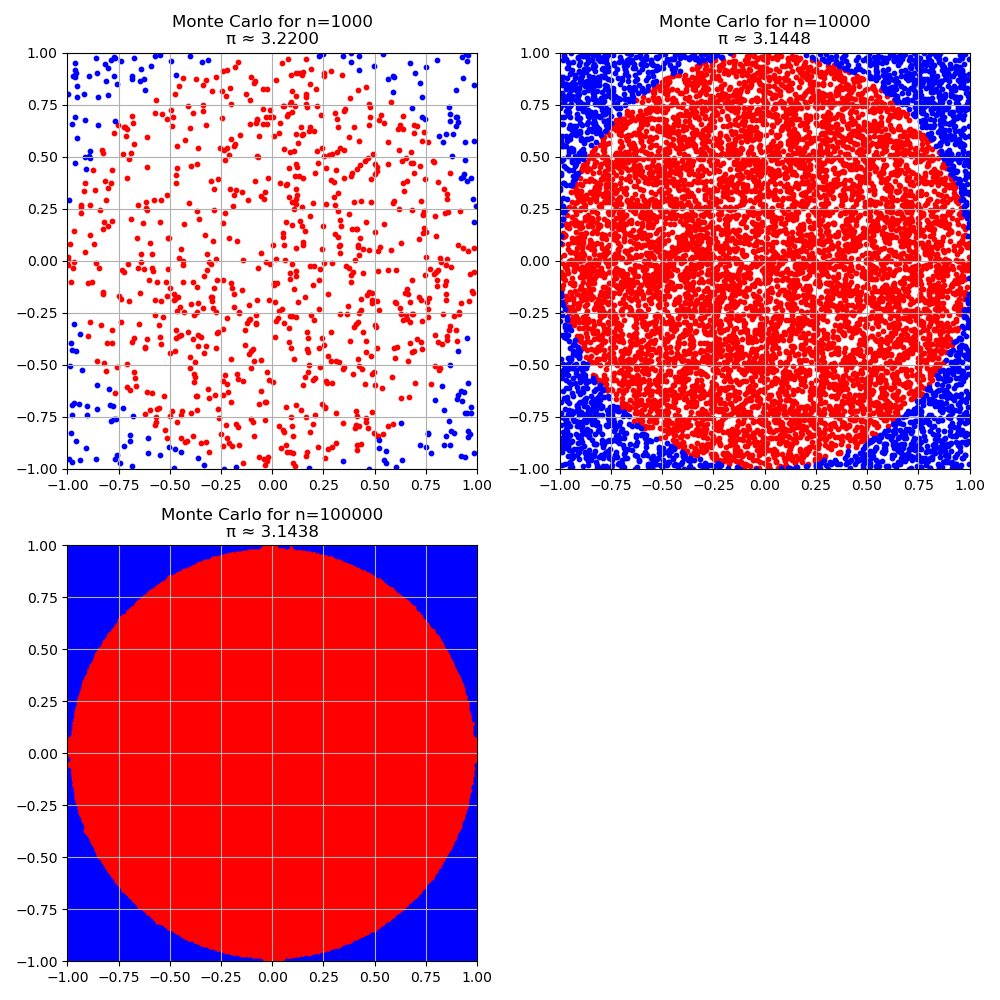
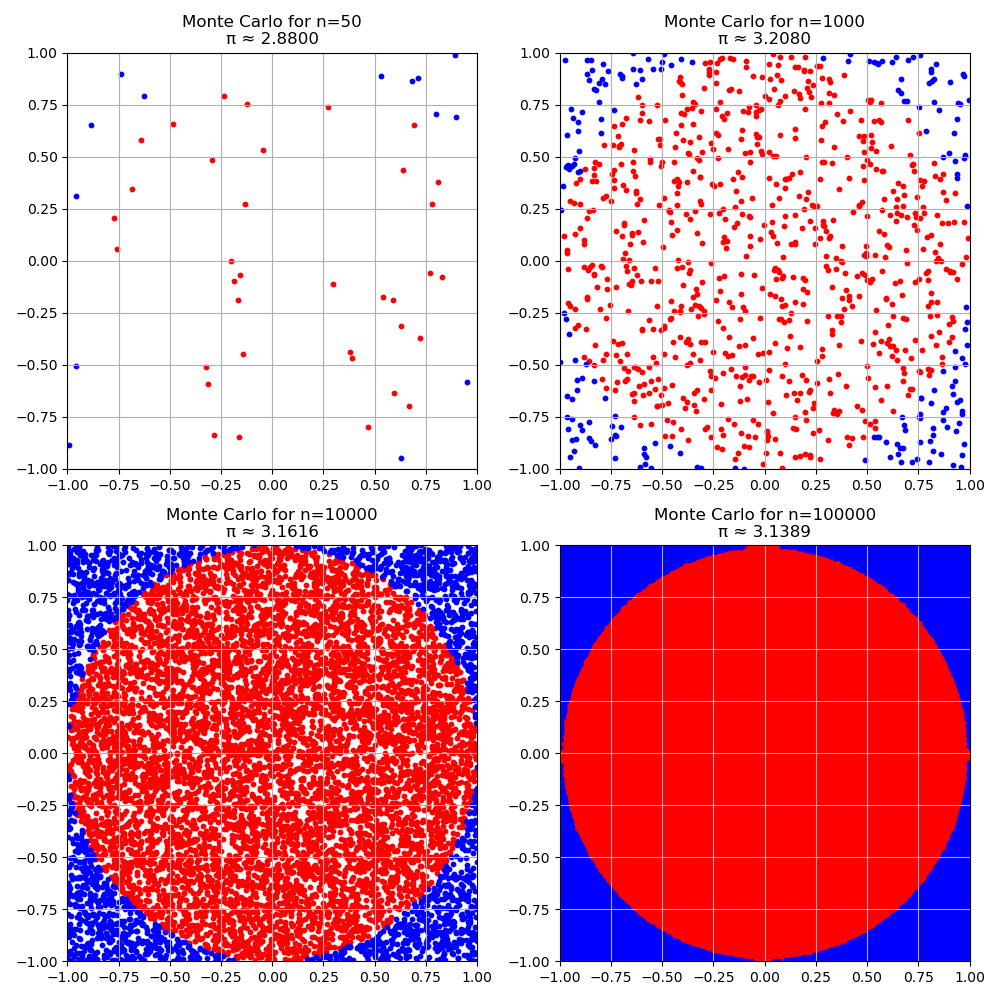
MA4_2.py

diff --git a/MA4_2.py b/MA4_2.py
@@ -1,4 +1,11 @@
 #!/usr/bin/env python3
+"""
+Solutions to module 4
+Student: Cornelia Färdig
+Mail: cornelia.fardig.3943@student.uu.se
+Reviewed by: Naser Shabani
+Reviewed date: 2023-10-12
+"""
 
 from person import Person
 
@@ -36,7 +43,7 @@ def fib_timings(n):
 
 	start = pc()	# starts time rec
 	fib_py(n)
-	timings['python'] = pc() - start	# takes current time subtracted with start time and 
+	timings['python'] = pc() - start	# takes current time subtracted with start time and
 						# stores with the var name 'python' in dict.
 	start = pc()
 	fib_numba(n)
@@ -44,7 +51,7 @@ def fib_timings(n):
 
 	f = Person(n)
 	start = pc()
-	f.fib(n)
+	f.fib()
 	timings['cpp'] = pc() - start		# same as above but for cpp version
 
 	return timings
@@ -138,21 +145,31 @@ def monte_carlo_parallell(n, d, p):
 
 if __name__ == '__main__':
 	# main()
-	
+
 	# ---------- 2.2 ----------
-	# numba warm-up, in accordance to recommendations online
+	# numba warm-up, in accordance to recommendations online (without it the numba values flatlined 
+	# on 1.4 sec for all runs.
 	fib_numba(10)
 
-	n_values = list(range(28,44))
+	n_values = list(range(30,46))
 	results = parallell_fib(n_values)
-	plot_fib(n_values, results, 'fib_28_to_43.png')
+	plot_fib(n_values, results, 'fib_30_to_45.png')
+
+	# from results the fib(47) done by the c++ version is negative, but fibonacci sequences cannot be negative
+	# this is due to limitations in the c++ programming language rending it unable to manage numbers that are too long.
+	# fib_cpp(47) = -1323752223
+	# fib_numba(47) = 2971215073
+	f = Person(47)
+	print(f.fib(), fib_numba(47))
 
 	print()
 
+
 	# ---------- 1.1 ----------
-	n_values = [50, 100, 200, 400] # n is the amount of random points to generate
+	n_values = [50, 1000, 10000, 100000] # n is the amount of random points to generate
 	plot(n_values, 'monte_carlo.png')
-	#plot(n_values)
+	# plot(n_values)	# uncomment this to plot directly
+
 
 	# ---------- 1.2 ----------
 	n, d1, d2 = 100000, 2, 11
@@ -175,8 +192,9 @@ if __name__ == '__main__':
 
 	print()
 
+
 	# ---------- 1.3 ----------
-	n1, n2, d, p = 1000000, 100000, 11, 10
+	n1, n2, d, p = 10000000, 1000000, 11, 10
 
 	# print values for sequential and parallell programming as well as theoretical value for hypersphere volume
 	print('----- PART 1.3 -----')

diff --git a/person.cpp b/person.cpp
@@ -1,50 +1,46 @@
 #include <cstdlib>
-// Person class 
+// Person class
 
 class Person{
 	public:
 		Person(int);
 		int get();
 		void set(int);
-		int fib(int n);		// public method that calls private method fib_help
+		int fib(void);
 	private:
-		int fib_help(int n);	// computes fibonacci sequence recursively
 		int age;
+		int fib(int n){
+			if(n <= 2)
+				return 1;
+			return (fib(n-1) + fib(n-2));
+		}
 	};
- 
+
 Person::Person(int n){
 	age = n;
 	}
- 
+
 int Person::get(){
 	return age;
 	}
- 
+
 void Person::set(int n){
 	age = n;
 	}
 
-// fib (public) and fib_help (private) are methods to recursively 
-// calculate fib sequence
-int Person::fib(int n) {
-	return fib_help(n);
-}
-
-int Person::fib_help(int n) {
-	if(n <= 1) return n;
-	return fib_help(n-1) + fib_help(n-2);
+int Person::fib(void){
+	return fib(get());
 }
 
 extern "C"{
 	Person* Person_new(int n) {return new Person(n);}
 	int Person_get(Person* person) {return person->get();}
 	void Person_set(Person* person, int n) {person->set(n);}
+	int Person_fib(Person* Person) {return Person->fib();}
 	void Person_delete(Person* person){
 		if (person){
 			delete person;
 			person = nullptr;
 			}
 		}
-	// C binding enables Python to call the fib method
-	int Person_fib(Person* person, int n) {return person->fib(n);}
 	}

diff --git a/person.py b/person.py
@@ -10,23 +10,19 @@ class Person(object):
 		lib.Person_get.argtypes = [ctypes.c_void_p]
 		lib.Person_get.restype = ctypes.c_int
 		lib.Person_set.argtypes = [ctypes.c_void_p,ctypes.c_int]
+		lib.Person_fib.restype = ctypes.c_int
+		lib.Person_fib.argtypes = [ctypes.c_void_p]
 		lib.Person_delete.argtypes = [ctypes.c_void_p]
 		self.obj = lib.Person_new(age)
-
-	# 
-	def fib(self, n):
-		# ctypes.c_void_p (pointer to void) ctypes.c_int (integer = n)
-		lib.Person_fib.argtypes = [ctypes.c_void_p, ctypes.c_int]
-		lib.Person_fib.restype = ctypes.c_int
-		# self.obj tells the C++ function which object to operate on,
-		# returns result to Python
-		return lib.Person_fib(self.obj, n) 
 
 	def get(self):
 		return lib.Person_get(self.obj)
 
 	def set(self, age):
 		lib.Person_set(self.obj, age)
-        
+
+	def fib(self):
+		return lib.Person_fib(self.obj)
+
 	def __del__(self):
 		return lib.Person_delete(self.obj)
